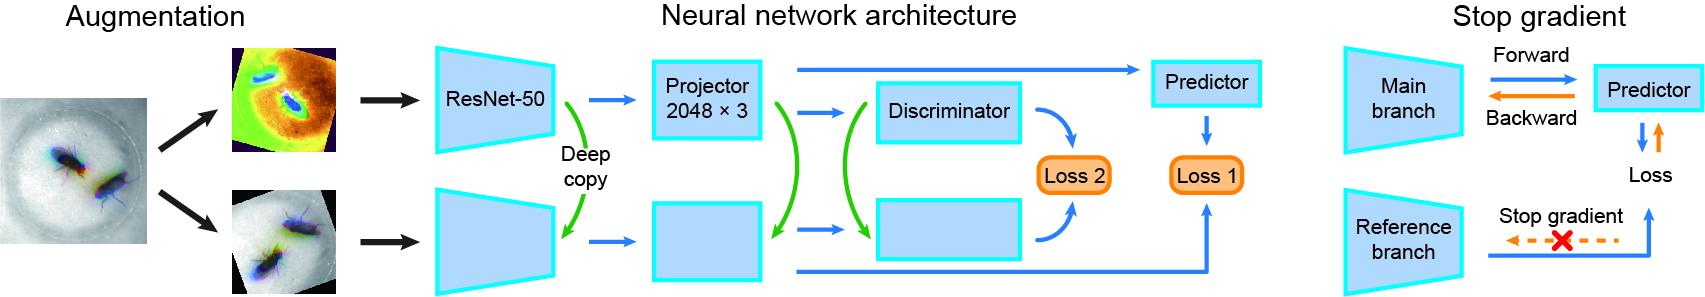
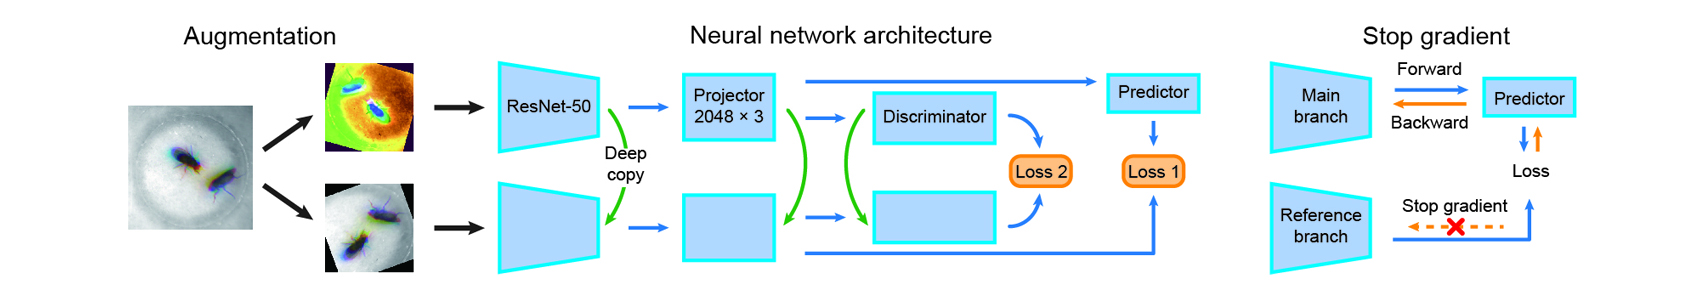
imgsize

diff --git a/README.md b/README.md
@@ -2,7 +2,11 @@
 
 This is the official implementation of Selfee. In brief, Selfee is a **fully unsupervised** neural network for animal behavior analysis. **It is fast, sensitive, and unbiased.**
 
-![Selfee](./img/selfee.jpg)
+<div align=center>
+<img src=./img/selfee.jpg width=62%/>
+</div>
+
+
 ## Abstract
 Fast and accurately characterizing animal behaviors is crucial for neuroscience research. Deep learning models are efficiently used in laboratories for behavior analysis. However, it has not been achieved to use a fully unsupervised method to extract comprehensive and discriminative features directly from raw behavior video frames for annotation and analysis purposes. Here, we report a self-supervised feature extraction (Selfee) convolutional neural network with multiple downstream applications to process video frames of animal behavior in an end-to-end way. Visualization and classification of the extracted features (Meta-representations) validate that Selfee processes animal behaviors in a comparable way of human understanding. We demonstrate that Meta-representations can be efficiently used to detect anomalous behaviors that are indiscernible to human observation and hint in-depth analysis. Furthermore, time-series analyses of Meta-representations reveal the temporal dynamics of animal behaviors. In conclusion, we present a self-supervised learning approach to extract comprehensive and discriminative features directly from raw video recordings of animal behaviors and demonstrate its potential usage for various downstream applications.
 
